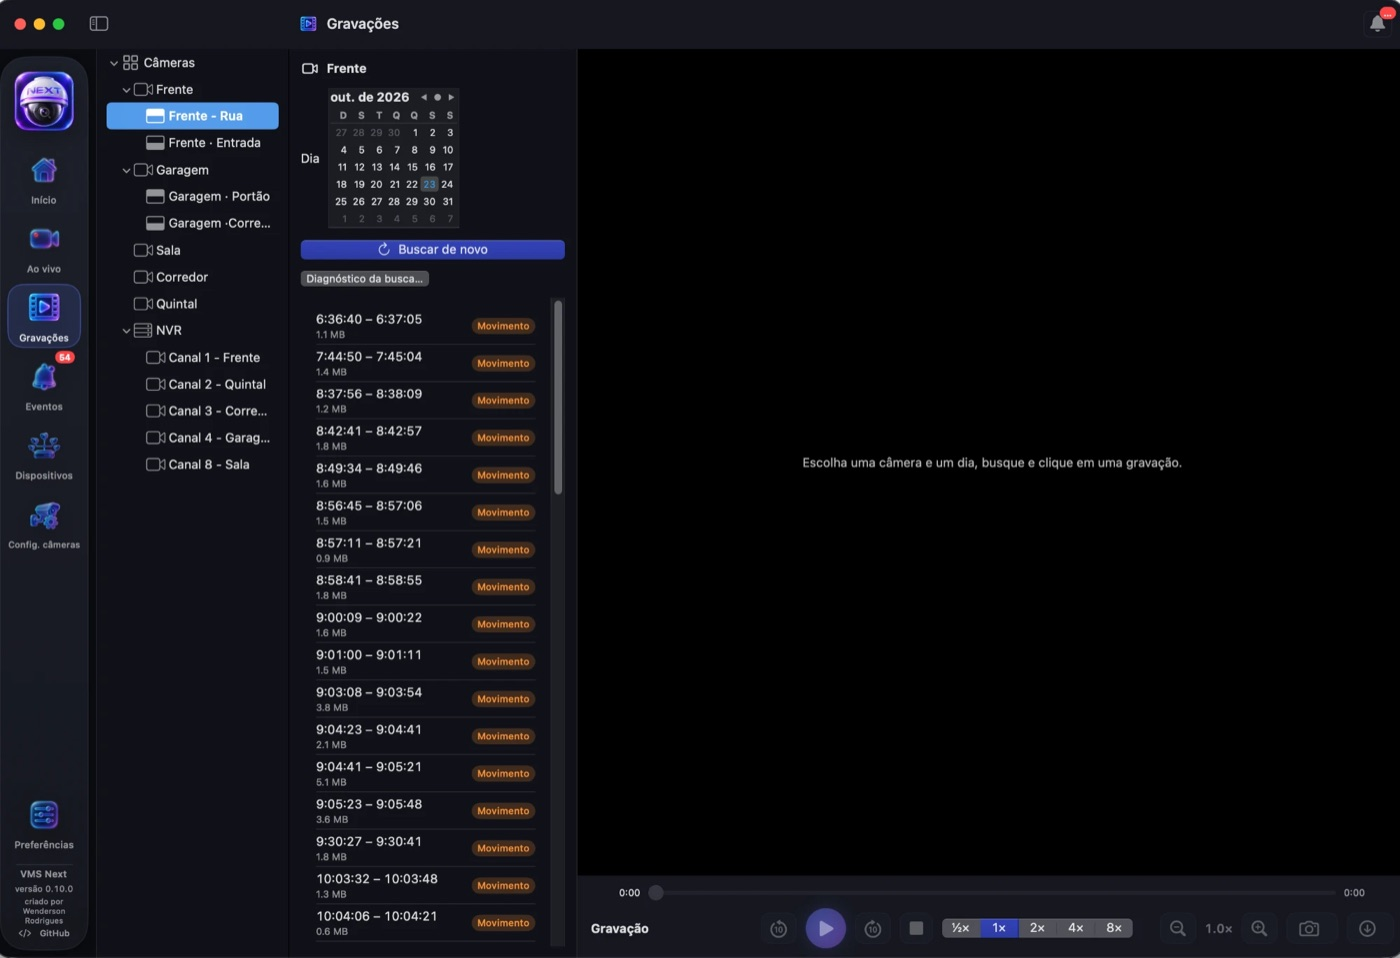
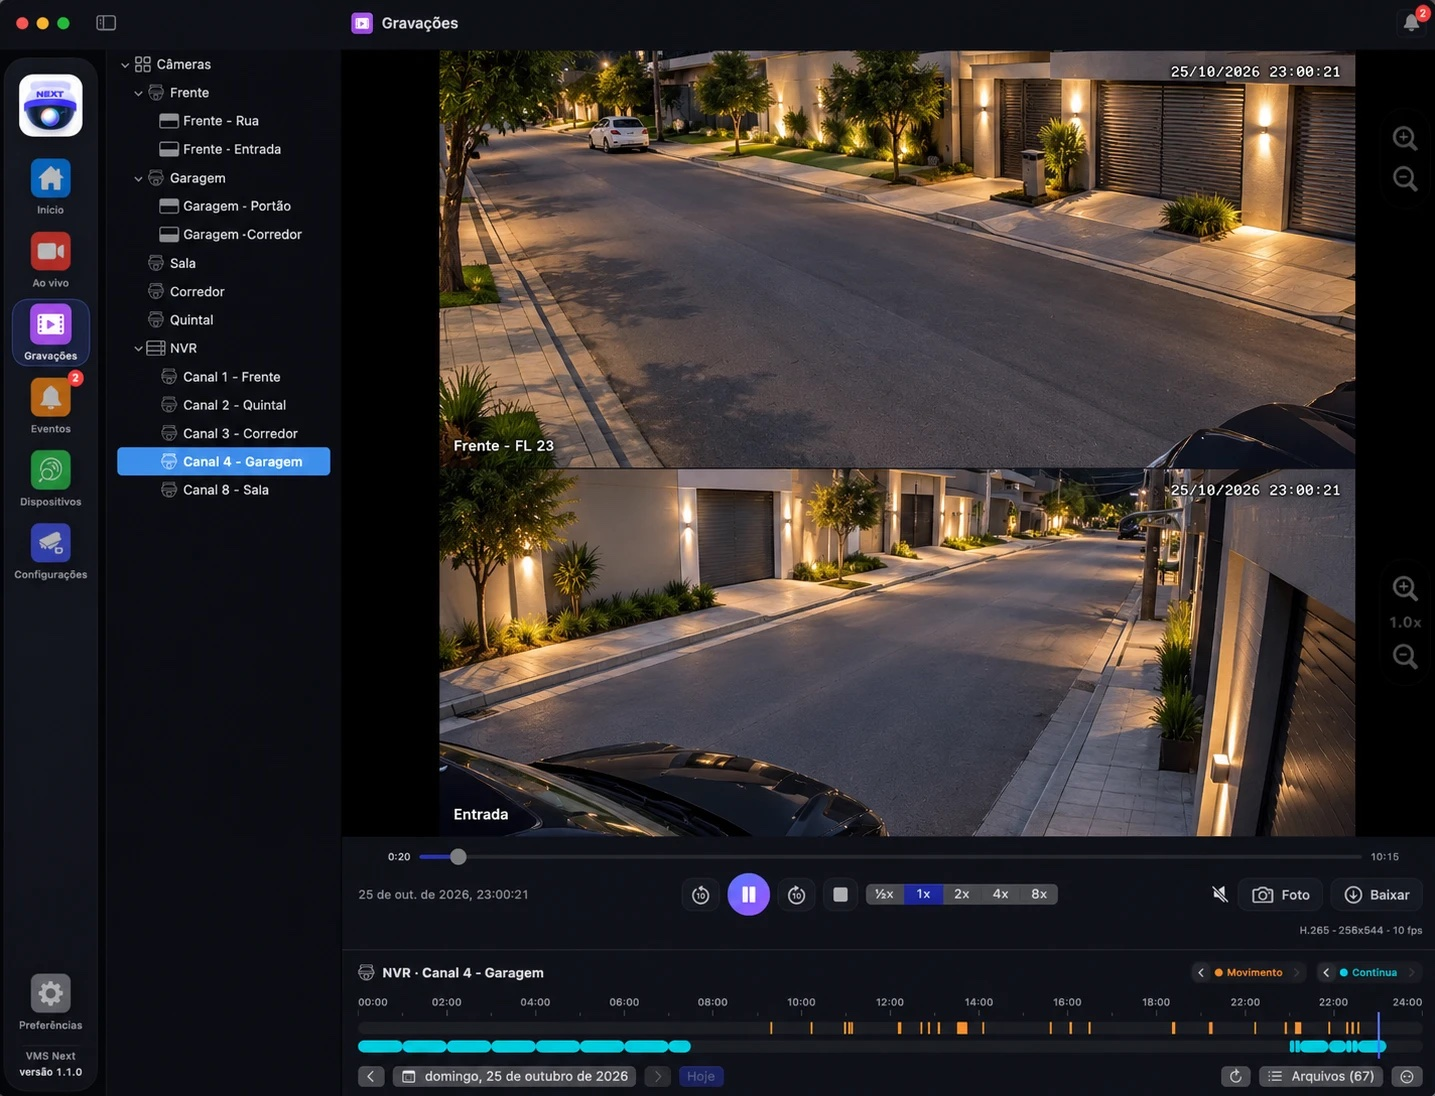
Versão 1.2.0: README novo com as telas atuais

diff --git a/README.md b/README.md
@@ -1,32 +1,102 @@
-# VMS Next - iCSee/XMEye for MacOs
-
 <p align="center">
-  <img src="docs/images/capa.jpg" alt="VMS Next: Início e Câmeras ao vivo" width="100%">
+  <img src="docs/images/logo.png" alt="Logo do VMS Next" width="140">
 </p>
 
-App nativo para **Mac com Apple Silicon** dedicado a câmeras e NVRs (XMEye / iCSee), feito em Swift e SwiftUI.
+<h1 align="center">VMS Next</h1>
 
-Reúne num só lugar o ao vivo, as gravações, os alertas e todas as configurações dos equipamentos. Roda em arm64, decodifica vídeo pelo hardware do chip M e conversa direto com as câmeras pela rede local, sem nuvem e sem o SDK da fabricante. Cobre as funções do VMS para Mac (app para Intel, que depende do Rosetta) e acrescenta outras.
+<p align="center">
+  <b>Câmeras e NVRs Xiongmai (iCSee / XMEye) num app nativo para Mac com Apple Silicon.</b><br>
+  Ao vivo, gravações, alertas e todas as configurações dos equipamentos,<br>
+  feito em Swift e SwiftUI. Código aberto, sem nuvem e seu.
+</p>
 
-[![Versão](https://img.shields.io/github/v/release/wendersonrodrigues/vms-next?label=vers%C3%A3o)](https://github.com/wendersonrodrigues/vms-next/releases/latest)
-[![Licença MIT](https://img.shields.io/badge/licen%C3%A7a-MIT-blue)](LICENSE)
-![macOS 14+](https://img.shields.io/badge/macOS-14%2B-black)
-![Apple Silicon](https://img.shields.io/badge/Apple-Silicon-8A2BE2)
+<p align="center">
+  <a href="https://github.com/wendersonrodrigues/vms-next/releases/latest"><img src="https://img.shields.io/github/v/release/wendersonrodrigues/vms-next?label=vers%C3%A3o&color=3550D8" alt="Versão"></a>
+  <img src="https://img.shields.io/badge/100%25-Swift-F05138?logo=swift&logoColor=white" alt="100% Swift">
+  <img src="https://img.shields.io/badge/macOS%2014%2B-Apple%20Silicon-black?logo=apple&logoColor=white" alt="macOS 14+ Apple Silicon">
+  <a href="LICENSE"><img src="https://img.shields.io/badge/licen%C3%A7a-MIT-555" alt="Licença MIT"></a>
+  <img src="https://img.shields.io/badge/idiomas-portugu%C3%AAs%20%C2%B7%20ingl%C3%AAs-2ea44f" alt="Português e inglês">
+</p>
+
+<p align="center">
+  <a href="#telas">Telas</a> ·
+  <a href="#desempenho">Desempenho</a> ·
+  <a href="#instalação">Instalação</a> ·
+  <a href="#primeiros-passos">Primeiros passos</a> ·
+  <a href="#funcionalidades">Funcionalidades</a> ·
+  <a href="#próximos-passos">Próximos passos</a> ·
+  <a href="#compilar-a-partir-do-código">Compilar</a>
+</p>
+
+<p align="center">
+  <img src="docs/images/inicio.jpg" alt="VMS Next: tela de Início no modo escuro" width="100%">
+  <br>
+  <sub>A tela de Início: temperatura, alertas de hoje, equipamentos conectados, discos e a conexão de cada câmera.</sub>
+</p>
+
+> [!NOTE]
+> **Substitui o VMS para Mac da Xiongmai**, que é um app para Intel e depende do Rosetta. O VMS Next roda em arm64,
+> decodifica o vídeo pelo hardware do chip M e conversa direto com as câmeras pela rede local, sem nuvem e sem o SDK
+> da fabricante. Cobre as funções do VMS antigo e acrescenta outras.
+
+<table>
+  <tr>
+    <td width="25%" valign="top">
+      <h3>🖥 Nativo e leve</h3>
+      Swift e SwiftUI, vídeo H.264 e H.265 decodificado pelo chip da Apple. Cerca de 13 vezes menos memória que o VMS antigo.
+    </td>
+    <td width="25%" valign="top">
+      <h3>🔒 Tudo na sua rede</h3>
+      Fala direto com as câmeras e os NVRs. Senhas num cofre criptografado, só neste Mac. Nada vai para a nuvem.
+    </td>
+    <td width="25%" valign="top">
+      <h3>🎛 Igual ao VMS antigo</h3>
+      Cada tela de configuração foi conferida no código do VMS antigo: as mesmas opções e os mesmos valores, só o que a câmera tem.
+    </td>
+    <td width="25%" valign="top">
+      <h3>♿ Feito para o macOS</h3>
+      Revisto pelas regras da Apple: modo claro e escuro, VoiceOver, atalhos de teclado, alto contraste, português e inglês.
+    </td>
+  </tr>
+</table>
 
 ## Telas
 
 <table>
   <tr>
-    <td width="50%"><img src="docs/images/inicio.jpg" alt="Início"><br><sub><b>Início</b>: clima, alertas, discos e conexão dos equipamentos</sub></td>
-    <td width="50%"><img src="docs/images/ao-vivo-mosaico.jpg" alt="Câmeras ao vivo"><br><sub><b>Ao vivo</b>: modelos de tela, split virtual e rodízio</sub></td>
+    <td width="50%" valign="top">
+      <img src="docs/images/ao-vivo-mosaico.jpg" alt="Câmeras ao vivo no mosaico">
+      <p align="center"><sub>Mosaico com split virtual, PTZ na lateral e zoom em cada quadro.</sub></p>
+      <h3>Ao vivo, do seu jeito</h3>
+      <p>Modelos de tela prontos ou personalizados, arrastar câmeras para os quadros e rodízio de telas. Câmeras de
+      lente dupla viram dois quadros com um só vídeo. Cada quadro tem nome, <b>PTZ</b>, som e expandir; o controle de
+      PTZ fica no pé da lista, com presets e ronda.</p>
+    </td>
+    <td width="50%" valign="top">
+      <img src="docs/images/gravacoes.jpg" alt="Gravações com linha do tempo">
+      <p align="center"><sub>Linha do tempo do dia, com uma faixa para cada tipo de gravação.</sub></p>
+      <h3>Gravações na linha do tempo</h3>
+      <p>O dia inteiro numa régua de 0 h a 24 h: <b>movimento</b>, <b>alarme</b>, <b>manual</b> e <b>contínua</b>, cada
+      um na sua cor. Clique num ponto para assistir dali, use as setas para ir ao trecho anterior ou ao próximo de um
+      tipo e escolha o dia num calendário. Baixe em MP4 ou tire uma foto do quadro.</p>
+    </td>
   </tr>
   <tr>
-    <td><img src="docs/images/ao-vivo-camera.jpg" alt="Câmera em tela cheia"><br><sub><b>Câmera em tela cheia</b>: som, HD/SD, zoom, foto, gravar e PTZ</sub></td>
-    <td><img src="docs/images/gravacoes.jpg" alt="Gravações"><br><sub><b>Gravações</b>: busca por dia, player, zoom, foto e MP4</sub></td>
-  </tr>
-  <tr>
-    <td><img src="docs/images/eventos.jpg" alt="Eventos"><br><sub><b>Eventos</b>: alertas com atalhos para o ao vivo e a gravação</sub></td>
-    <td><img src="docs/images/config-imagem.jpg" alt="Configurações da câmera"><br><sub><b>Configurações</b>: ajustes com prévia ilustrada</sub></td>
+    <td width="50%" valign="top">
+      <img src="docs/images/configuracoes.jpg" alt="Configurações da câmera">
+      <p align="center"><sub>Menu de configurações de uma câmera, agrupado por assunto.</sub></p>
+      <h3>Todas as configurações</h3>
+      <p>Imagem e visão noturna, exposição, texto na imagem, qualidade do vídeo, gravação, fotos, disco, detecção
+      inteligente, alarmes, rede, usuários e manutenção, para a câmera, o NVR ou cada canal. Só aparecem as opções que
+      o equipamento tem.</p>
+    </td>
+    <td width="50%" valign="top">
+      <img src="docs/images/inicio-claro.jpg" alt="Início no modo claro">
+      <p align="center"><sub>A mesma tela de Início no modo claro.</sub></p>
+      <h3>Claro, escuro e acessível</h3>
+      <p>Segue o tema do Mac ou o que você escolher, com cores que mantêm o contraste nos dois modos. Funciona com o
+      VoiceOver e pelo teclado, e fica na barra de menus avisando dos alertas mesmo com a janela fechada.</p>
+    </td>
   </tr>
 </table>
 
@@ -60,7 +130,7 @@ O VMS Next usou **cerca de 13 vezes menos memória RAM**, menos da metade das th
 1. **Adicionar câmeras:** vá em **Dispositivos → Procurar na rede**. Aparecem as câmeras e NVRs Xiongmai da sua rede; clique em **Adicionar…**, confira o nome e digite o **usuário e a senha do equipamento** (os mesmos do iCSee/XMEye). Também dá para adicionar pelo IP com **+ → Nova câmera**.
 2. **Ver ao vivo:** clique em **Ao vivo** (⌘2). Escolha o modelo de tela na barra de baixo e arraste câmeras da lista para os quadros. Cada quadro tem embaixo o nome, o **PTZ** (nas câmeras que têm), o som e o botão **expandir**, que abre a câmera em tela cheia (duplo clique também abre).
 3. **Câmera dupla** (duas imagens uma em cima da outra): botão direito → **Dividir em duas (split virtual)**.
-4. **Gravações:** clique em **Gravações**, escolha a câmera na lista e o dia. Clique numa gravação para assistir; **Baixar** salva em MP4.
+4. **Gravações:** clique em **Gravações** e escolha a câmera na lista. A linha do tempo mostra o dia; clique num ponto para assistir dali e use a data embaixo para escolher outro dia. **Baixar** salva em MP4.
 5. **Alertas:** em **Eventos → Ajustes dos alertas** escolha quais tipos notificam e tocam som. Cada alerta tem atalhos para o **ao vivo** e para a **gravação** daquele momento.
 6. **Configurar uma câmera:** clique em **Configurações** e escolha a câmera ou o NVR na lista. Só aparecem as opções que o equipamento tem.
 7. **Preferências (⌘,):** pastas de fotos e downloads, gravação no Mac, tema e segundo plano.
@@ -96,7 +166,10 @@ O VMS Next usou **cerca de 13 vezes menos memória RAM**, menos da metade das th
 
 ### Gravações
 - A câmera vem da lista ao lado e a busca do dia é automática.
-- Reprodução com pausa, saltos de 10 s, barra de progresso, velocidade de ½× a 8× e som.
+- **Linha do tempo** de 0 h a 24 h com uma faixa por tipo (alarme, movimento, manual e contínua), hora ao passar o mouse e clique para assistir daquele momento.
+- **Setas por tipo** (‹ Movimento ›, ‹ Contínua ›) para ir ao trecho anterior ou ao próximo.
+- Barra de data com **‹ ›** de dia em dia, **calendário** ao clicar na data, **Hoje** e a lista de **Arquivos** do dia.
+- Reprodução com pausa, saltos de 10 s, barra de progresso, velocidade de ½× a 8× e som; a barra se ajusta em janelas estreitas.
 - **Download em MP4** (vídeo sem recomprimir e som em AAC).
 - **Zoom digital** e **foto do quadro**, inteira ou só da parte ampliada.
 

diff --git a/CHANGELOG.md b/CHANGELOG.md
@@ -1,5 +1,16 @@
 # Novidades
 
+## 1.2.0 — 25/10/2026
+
+- **Gravações em linha do tempo**: o dia inteiro numa régua de 0 h a 24 h, com uma faixa e uma cor para cada tipo (alarme, movimento, manual e contínua). Passar o mouse mostra a hora; clicar toca dali.
+- **Setas por tipo**: ‹ Movimento › e ‹ Contínua › levam ao trecho anterior ou ao próximo daquele tipo.
+- **Barra de data**: ‹ › de dia em dia, calendário ao clicar na data, Hoje e a lista de arquivos do dia.
+- **Janela estreita**: a lista de câmeras não some mais nas Gravações, e a barra do player se ajusta à largura.
+- **Inglês** como segundo idioma, com a escolha nas Preferências (o app reinicia no idioma escolhido).
+- **Ícones da barra de menus** novos: normal, alertas novos e sem receber alertas.
+- **Ícone de câmera do app** na lista lateral, Dispositivos, Eventos, PTZ e Gravações.
+- README novo, com as telas atuais.
+
 ## 1.1.0 — 25/10/2026
 
 Versão oficial. Junta tudo das betas 1, 2 e 3 e acrescenta:
